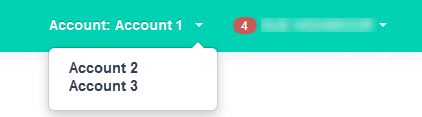
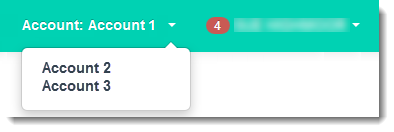
Review switching accounts article
Updated screenshots
Add link to partitioning article

Changed region(s): [[0.0, 0.0, 1.0, 1.0], [0.5178, 0.1282, 0.9137, 0.3077], [0.0305, 0.1538, 0.4873, 0.2564]]

diff --git a/articles/portal/ptl-how-switch-account.md b/articles/portal/ptl-how-switch-account.md
@@ -4,7 +4,7 @@ description: Shows how to switch between accounts in the UKCloud Portal
 services: portal
 author: shighmoor
 reviewer: shighmoor
-lastreviewed: 09/04/2021
+lastreviewed: 19/04/2022
 
 toc_rootlink: How To
 toc_sub1: 
@@ -24,7 +24,7 @@ Each Portal user account is associated with one or more customer accounts. Withi
 
 ### Intended audience
 
-Any Portal user with access to multiple accounts can switch between those accounts in the Portal.
+To switch between accounts, your user account must have access to multiple customer accounts.
 
 ## Switching accounts
 
@@ -40,7 +40,11 @@ To switch to a different account:
 
    ![Account menu](images/ptl-mnu-customer-account.png)
 
-   You can now manage the services associated with the selected account.
+4. You can now manage the services associated with the newly selected account.
+
+## Related articles
+
+- [*Partitioning projects or end customers using UKCloud accounts*](ptl-ref-multiple-accounts.md)
 
 ## Feedback
 

diff --git a/articles/portal/ptl-ref-multiple-accounts.md b/articles/portal/ptl-ref-multiple-accounts.md
@@ -91,6 +91,8 @@ When you bring a new workload to UKCloud, your Service Delivery Manager (SDM) wi
 
 - [*How to create a new user in the UKCloud Portal*](ptl-how-create-users.md)
 
+- [*How to switch to a different account in the UKCloud Portal*](ptl-how-switch-account.md)
+
 ## Feedback
 
 If you find a problem with this article, click **Improve this Doc** to make the change yourself or raise an [issue](https://github.com/UKCloud/documentation/issues) in GitHub. If you have an idea for how we could improve any of our services, send an email to <feedback@ukcloud.com>.
